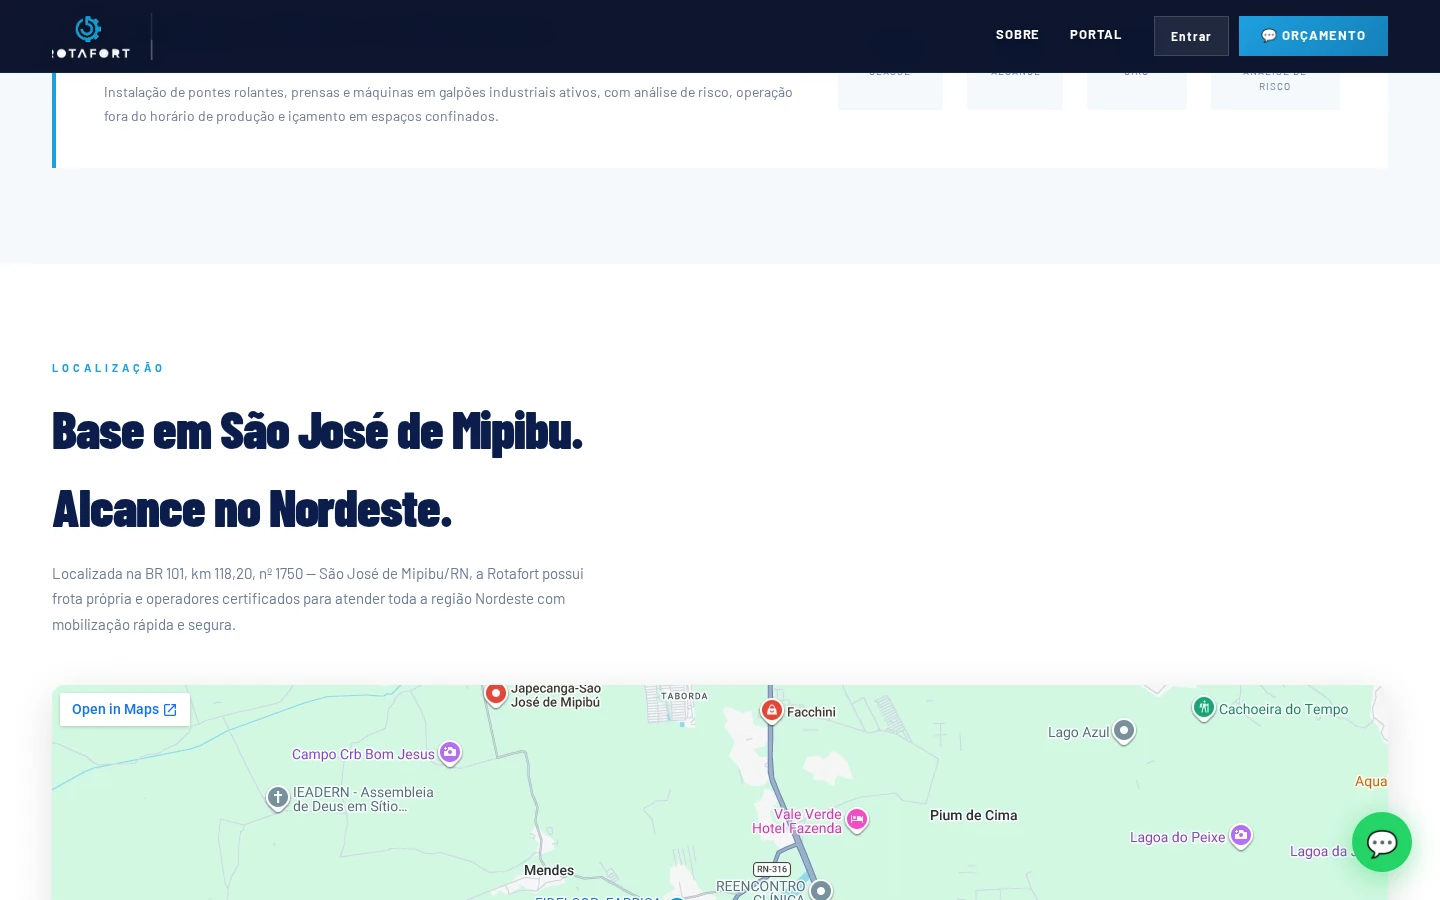
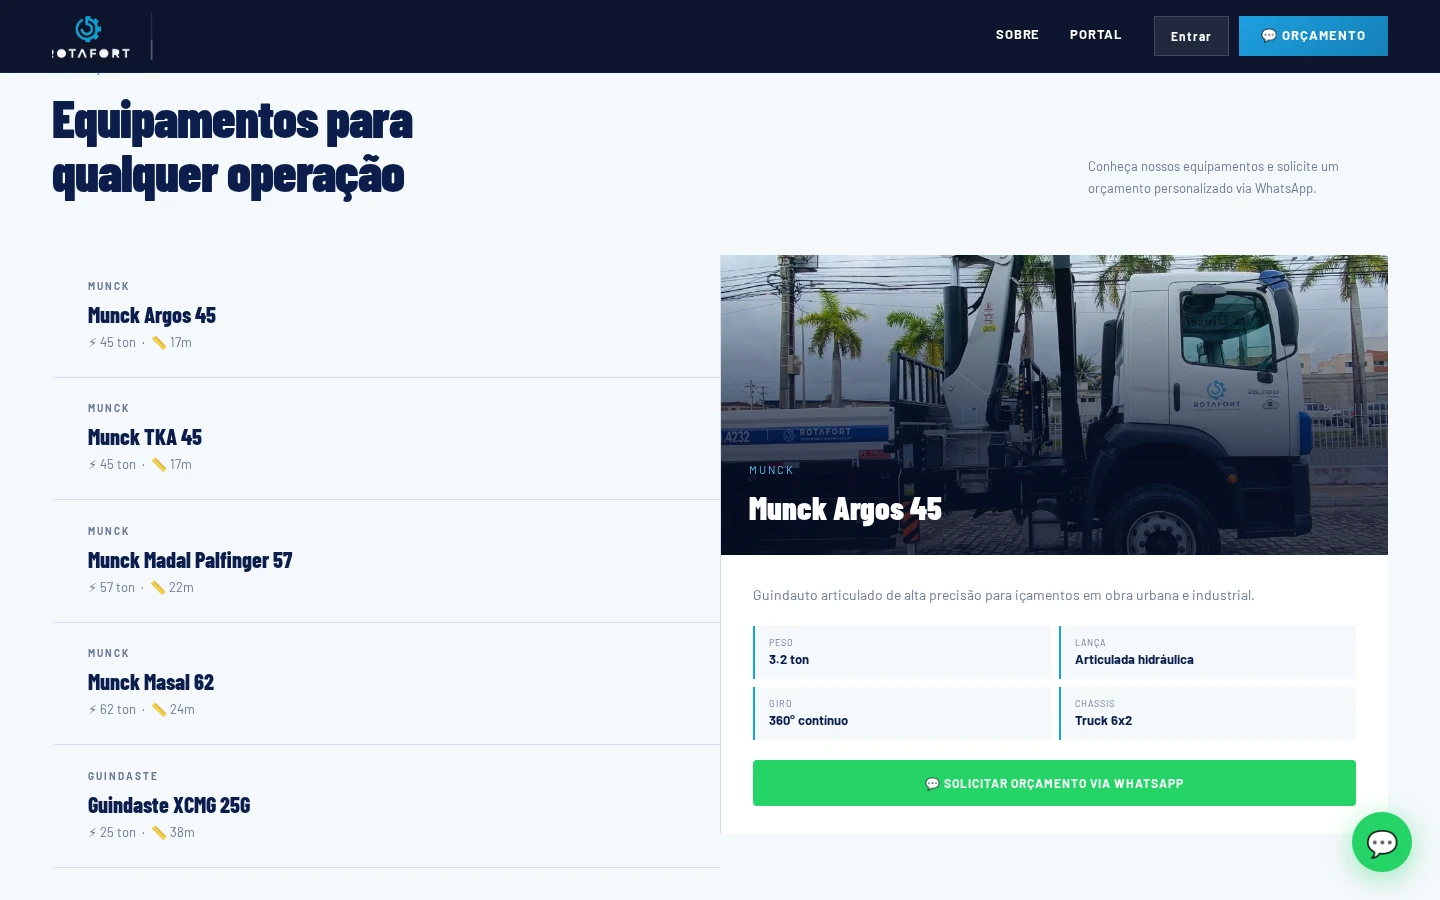
Rodada 2 prints verificados: Rota context-frota.webp substituído (seção Equipamentos com título abaixo da navbar, sem mapa — anterior divergia para Localização) e novo motormoura/context-catalogo.webp (/Catalogo com produtos reais, sem login/leads). Ambos verificados no DOM ANTES de salvar. Manifest

diff --git a/public/work/midia-contexto-manifesto.md b/public/work/midia-contexto-manifesto.md
@@ -63,3 +63,9 @@ Branch codex/cases-contexto-midia-2026-10-25 (base 7548cadb). Captura em browser
 - Rota Forte: o raster congela após o primeiro screenshot na mesma sessão (site com motion pesado); cada print saiu de uma sessão própria, clips a ~57-58fps reais.
 - Congelamentos: maior sequência de quadros idênticos em qualquer clipe = 0.18s (hover curto); sem spinner/paradas longas.
 - Vídeos originais/current/poster existentes e materiais do Thales: intocados. Nenhum arquivo alterado — apenas adição de context-* novos.
+## Correções e acréscimos (rodada 2, 25/10/2026)
+
+- `public/work/rota-forte/context-frota.webp` — SUBSTITUÍDO. O print anterior mostrava a seção de Localização/mapa (divergência de captura: heading sem espaço no DOM). Novo print verificado no DOM antes de salvar: título "Equipamentos paraqualquer operação" visível abaixo da navbar, conteúdo de equipamentos (Guindauto articulado), sem mapa. SHA256: 9f5dddfe759fec56b721652c127eab64bffe55869a69a39c862d3c0c485178f5. 1440x900, WebP q90.
+- `public/work/motormoura/context-catalogo.webp` — NOVO (print, sem clipe). Página https://motormouraequipamentos.com.br/Catalogo com produtos reais carregados (Motobombas; Motores Estacionários Honda/Toyama/Tekna), sem login e sem leads. SHA256: 420813b7897d854c55c5ea5b69516d8da8bfefbcd1e10916502d2acdf1be590e. 1440x900, WebP q90. Nota factual: o print da home (context-categorias.webp) mostra o aviso "Catálogo em atualização" e não serve como prova de catálogo pronto.
+- Legenda do print `public/work/1000-pecas/context-pecas.webp` corrigida no manifesto para CTA/rodapé (o conteúdo de cards está no clipe).
+- Clipes inalterados; transição não tocada.
